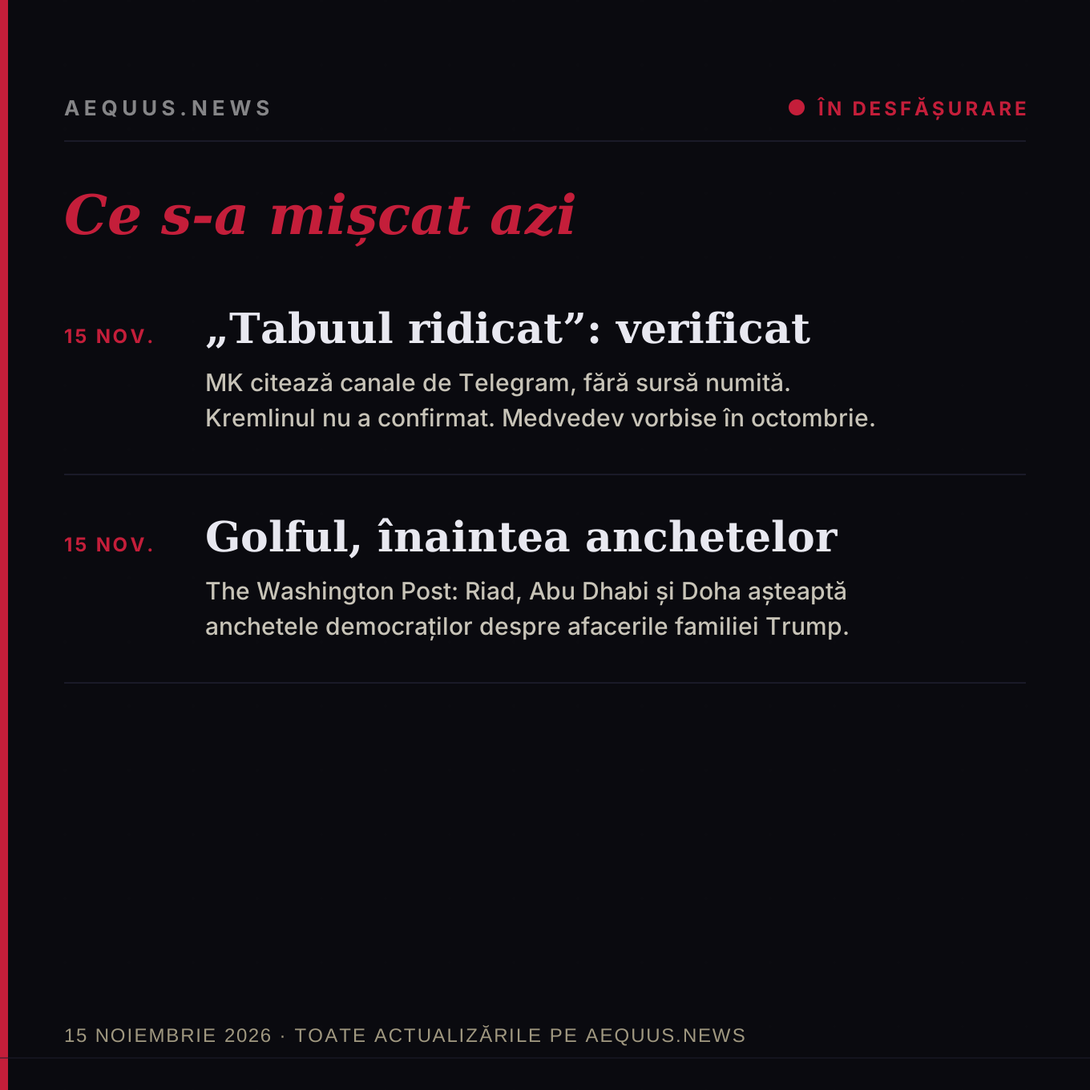
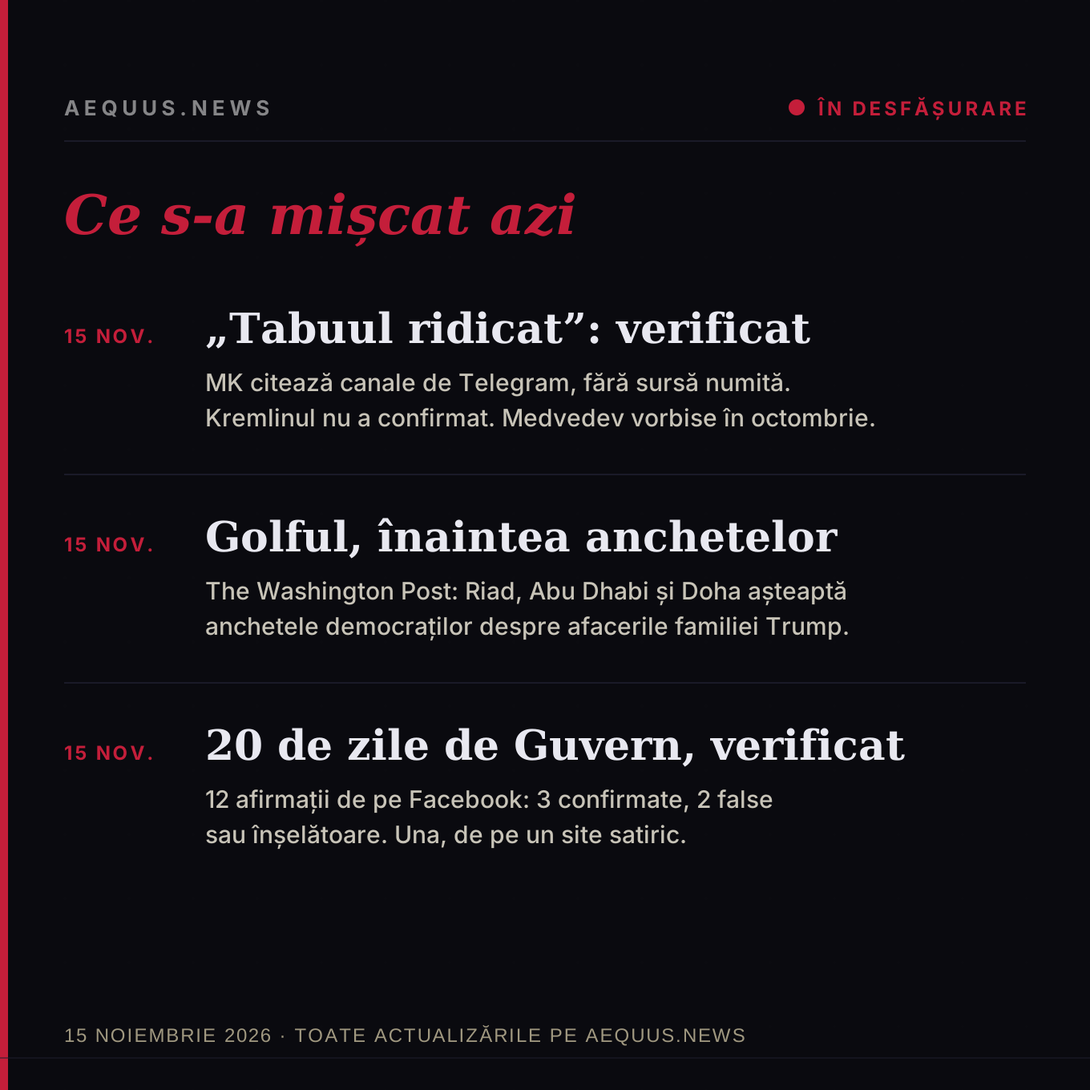
Ciornă: 20 de zile de Guvern Niculescu, verificat la sursă (12 afirmații); card; cardul de seară cu trei subiecte; România, prima pagină, În desfășurare, arhivă, toate, sitemap
Claude-Session: https://claude.ai/code/session_01WkZQEK3HZguKN3G8ruvfot

Changed region(s): [[0.1853, 0.6485, 0.8338, 0.7721], [0.0618, 0.6794, 0.1235, 0.7103]]

diff --git a/articles/guvernul-niculescu-20-de-zile-verificat.html b/articles/guvernul-niculescu-20-de-zile-verificat.html
@@ -1,0 +1,212 @@
+<!DOCTYPE html>
+<html lang="ro">
+<head>
+    <meta charset="UTF-8">
+    <meta name="viewport" content="width=device-width, initial-scale=1.0">
+    <meta name="description" content="Un bilanț al primelor trei săptămâni ale Guvernului Niculescu circulă pe rețelele sociale. Am verificat 12 afirmații: trei confirmate, patru parțial, trei neconfirmate, două false sau înșelătoare, una preluată dintr-un text satiric.">
+    <meta property="og:title" content="20 de zile de Guvern Niculescu: ce stă în picioare din lista care circulă pe Facebook">
+    <meta property="og:description" content="Un bilanț al primelor trei săptămâni ale Guvernului Niculescu circulă pe rețelele sociale. Am verificat 12 afirmații: trei confirmate, patru parțial, trei neconfirmate, două false sau înșelătoare, una preluată dintr-un text satiric.">
+    <meta property="og:image" content="https://aequus.news/articles/card-guvernul-niculescu-20-de-zile-verificat.png">
+    <meta property="og:url" content="https://aequus.news/articles/guvernul-niculescu-20-de-zile-verificat.html">
+    <meta property="og:type" content="article">
+    <meta property="og:site_name" content="Aequus">
+    <meta name="twitter:card" content="summary_large_image">
+    <meta name="twitter:title" content="20 de zile de Guvern Niculescu: ce stă în picioare din lista care circulă pe Facebook">
+    <meta name="twitter:description" content="12 afirmații despre Guvernul Niculescu, verificate. Una vine de pe un site satiric.">
+    <meta name="twitter:image" content="https://aequus.news/articles/card-guvernul-niculescu-20-de-zile-verificat.png">
+    <link rel="canonical" href="https://aequus.news/articles/guvernul-niculescu-20-de-zile-verificat.html">
+    <title>20 de zile de Guvern Niculescu, verificat | Aequus</title>
+    <style>
+        * { margin: 0; padding: 0; box-sizing: border-box; }
+        body {
+            background-color: #0a0a0f;
+            color: #e8e4d8;
+            font-family: Georgia, serif;
+            line-height: 1.75;
+            font-size: 16px;
+            padding: 40px 20px;
+        }
+        .container { max-width: 720px; margin: 0 auto; }
+        header {
+            margin-bottom: 40px;
+            border-bottom: 2px solid #c41e3a;
+            padding-bottom: 20px;
+        }
+        .tagline {
+            color: #c41e3a;
+            font-size: 12px;
+            text-transform: uppercase;
+            letter-spacing: 2px;
+            margin-bottom: 10px;
+        }
+        h1 {
+            font-size: 32px;
+            font-weight: normal;
+            line-height: 1.3;
+            margin-bottom: 15px;
+            color: #e8e4d8;
+        }
+        .date-author { color: #a09880; font-size: 13px; margin-top: 15px; }
+        .lead {
+            font-size: 18px;
+            color: #d4cfc0;
+            margin: 30px 0 40px 0;
+            font-style: italic;
+            border-left: 3px solid #c41e3a;
+            padding-left: 20px;
+        }
+        h2 {
+            font-size: 22px;
+            font-weight: normal;
+            margin: 50px 0 20px 0;
+            color: #e8e4d8;
+            border-bottom: 1px solid #2a2a30;
+            padding-bottom: 10px;
+        }
+        p { margin-bottom: 20px; text-align: justify; color: #d4cfc0; }
+        .data-box {
+            margin: 25px 0;
+            padding: 15px 20px;
+            border-left: 4px solid #c41e3a;
+            background-color: rgba(196, 30, 58, 0.08);
+            font-size: 15px;
+        }
+        .observation {
+            margin: 25px 0;
+            padding: 15px 20px;
+            border-left: 4px solid #4a6fa5;
+            background-color: rgba(74, 111, 165, 0.08);
+            font-size: 15px;
+        }
+        strong {
+            color: #e8e4d8;
+            font-weight: normal;
+            text-decoration: underline;
+            text-decoration-color: #c41e3a;
+        }
+        .table-wrap { overflow-x: auto; margin: 25px 0; }
+        table { width: 100%; border-collapse: collapse; font-size: 15px; }
+        th, td {
+            text-align: left;
+            padding: 8px 10px;
+            border-bottom: 1px solid #2a2a30;
+            color: #d4cfc0;
+            vertical-align: top;
+        }
+        th {
+            color: #c41e3a;
+            font-weight: normal;
+            font-size: 12px;
+            text-transform: uppercase;
+            letter-spacing: 1px;
+            border-bottom: 1px solid #c41e3a;
+        }
+        td.psd { color: #e8e4d8; }
+        ul { margin: 0 0 20px 22px; color: #d4cfc0; }
+        ul li { margin-bottom: 10px; padding-left: 4px; }
+        .source {
+            font-size: 12px;
+            color: #8a8674;
+            font-style: italic;
+            margin-top: 30px;
+            padding-top: 20px;
+            border-top: 1px solid #2a2a30;
+        }
+        .source a { color: #a09880; }
+        footer {
+            margin-top: 60px;
+            padding-top: 20px;
+            border-top: 1px solid #2a2a30;
+            color: #a09880;
+            font-size: 13px;
+        }
+        .footer-tagline {
+            color: #c41e3a;
+            font-size: 12px;
+            text-transform: uppercase;
+            letter-spacing: 2px;
+            margin-bottom: 10px;
+        }
+        @media (max-width: 520px) {
+            h1 { font-size: 26px; }
+            p { text-align: left; }
+            th, td { padding: 7px 6px; font-size: 14px; }
+        }
+    </style>
+</head>
+<body>
+    <div class="container">
+        <header>
+            <div class="tagline">România · Guvern · Verificat la sursă · Notă</div>
+            <h1>20 de zile de Guvern Niculescu: ce stă în picioare din lista care circulă pe Facebook</h1>
+            <div class="date-author">15 noiembrie 2026 | Aequus</div>
+        </header>
+
+        <div class="data-box">
+            <strong>Pe scurt:</strong>
+            <ul style="margin:12px 0 0 20px;">
+                <li>Pe rețelele sociale circulă un bilanț al primelor trei săptămâni ale Guvernului Niculescu, învestit pe 20 octombrie: prime și sporuri reluate în instituții și companii de stat, bani deblocați, miniștri care au anulat măsurile predecesorilor.</li>
+                <li>Am verificat 12 afirmații. Trei sunt confirmate, patru doar în parte, trei nu le-am putut confirma din nicio sursă publică, iar două sunt false sau înșelătoare. Una dintre acestea din urmă apare într-un text satiric.</li>
+                <li>Aprecierile despre miniștri și prognozele din text nu sunt fapte și nu le-am verificat.</li>
+            </ul>
+        </div>
+
+        <h2>Afirmațiile, una câte una</h2>
+        <div class="table-wrap">
+            <table>
+                <tr><th>Afirmația</th><th>Ce am găsit</th><th>Verdict</th></tr>
+                <tr><td>Nepotul senatoarei PSD Doina Federovici a ajuns director interimar la ANIF, fără concurs.</td><td>Ionuț Federovici, 33 de ani, angajat al ANIF din 2018, a fost numit pe 5 noiembrie director interimar la ANIF Botoșani, pe un post temporar, de circa trei luni, după pensionarea fostului șef. El spune: „N-a fost nicio implicare a doamnei în numirea mea ca director interimar.” ANIF nu a răspuns la întrebarea G4Media despre criterii.</td><td>Confirmat</td></tr>
+                <tr><td>S-au deblocat plățile din Anghel Saligny și PNRR, aproape 1 miliard de lei în noiembrie.</td><td>Pe 6 noiembrie, ministrul Dezvoltării, Alexandru Stoica, a anunțat plăți de circa 1 miliard de lei pentru lucrările din programul Anghel Saligny. Facturile din sistem însumează 2,3 miliarde; rămân neplătite 1,3–1,4 miliarde. Firmele cu proiecte PNRR primiseră 250 de milioane de lei în săptămâna anterioară. Motivul blocării anterioare, atribuit în text lui Bolojan, nu apare în anunț.</td><td>Confirmat</td></tr>
+                <tr><td>AEP scrie o nouă lege a partidelor.</td><td>AEP a pus în transparență, în august, un proiect de modificare a legii partidelor, criticat de PNL și USR.</td><td>Confirmat</td></tr>
+                <tr><td>Posturi suplimentare pentru cabinetul vicepremierului Marian Neacșu, cu sporuri de confidențialitate.</td><td>Prima ordonanță a Guvernului, adoptată pe 20 octombrie, îi dă lui Neacșu un consilier de stat, doi secretari de stat și un cabinet separat cu trei posturi contractuale, plătite din bugetul Secretariatului General al Guvernului. Despre sporuri sau scheme salariale speciale nu am găsit nimic.</td><td>Parțial</td></tr>
+                <tr><td>Peste 3,9 miliarde de lei, prin rectificare, pentru restanțe, gărzi și sporuri în spitale.</td><td>Rectificarea din 30 octombrie (OUG 41/2026) dă Fondului de asigurări de sănătate 3,22 miliarde de lei, aproape integral pentru medicamente, materiale și servicii, și permite Sănătății să folosească circa 3,9 miliarde reținute de la începutul anului. Destinația „gărzi și sporuri” nu apare în prezentarea oficială a rectificării pe care am analizat-o pe 31 octombrie.</td><td>Parțial</td></tr>
+                <tr><td>Manole: legea salarizării „poate la anul”, dar salariile demnitarilor cresc, iar salariul minim urcă cu 300 de lei.</td><td>Manole: „Negocierile trebuie reluate la începutul anului viitor.” Despre demnitari, nicio decizie: „nu vor fi demnitarii prioritatea”. Despre salariul minim: discuție în noiembrie, indexare „într-un orizont de 12 luni”. Cifra de 300 de lei nu am găsit-o.</td><td>Parțial</td></tr>
+                <tr><td>Intotero a publicat un video cu un baraj care „stă să crape” și ar inunda Valea Jiului.</td><td>Pe 5 noiembrie, la Uricani, Intotero a vorbit despre barajul Valea de Pești: infiltrații, lucrări urgente de circa 10,5 milioane de euro. „În scenariul extrem al unei cedări a barajului, consecințele pentru localitățile din aval ar putea fi catastrofale.” Nu a spus că barajul e pe punctul de a ceda. Videoclipul și nota de fundamentare cu „încă 50 de ani” nu le-am găsit.</td><td>Parțial</td></tr>
+                <tr><td>ASF: revin prima de vacanță, primele festive, până la 14 salarii pe an, sporul de confidențialitate.</td><td>Nu am găsit nicio decizie publică din ultimele trei săptămâni.</td><td>Neconfirmat</td></tr>
+                <tr><td>ROMATSA, Unifarm, Romsilva, RAR, Imprimeria Națională: sporuri, prime și indemnizații de CA deblocate.</td><td>Nu am găsit nicio decizie publică după 20 octombrie. La Unifarm, ultimele hotărâri ale adunării acționarilor publicate pe site sunt din septembrie.</td><td>Neconfirmat</td></tr>
+                <tr><td>Am pierdut definitiv 700 de milioane de euro din PNRR; urmează restul de 3,4 miliarde.</td><td>Suma pierdută e 770 de milioane de euro, anunțată de Nicușor Dan pe 27 august, înaintea Guvernului Niculescu, pentru că legea salarizării nu a fost adoptată la termen. Cifra de 3,4 miliarde „rest” nu am găsit-o.</td><td>Neconfirmat (3,4 miliarde); 770, nu 700</td></tr>
+                <tr><td>La ANRE s-au aprobat prime și sporuri de vechime de 3,5 milioane de euro.</td><td>ANRE e autoritate independentă, nu instituție a Guvernului. Bugetul ei rectificat, prin Ordinul 66 din 21 octombrie, semnat de președintele ANRE, a păstrat sporul de vechime de 15,53 milioane de lei (circa 3,05 milioane de euro), prevăzut de la începutul anului, și a scăzut cheltuielile de personal cu 1,945 milioane de lei, pentru plata taxei de solidaritate. Președintele ANRE: „Niciun salariu din Autoritatea de Reglementare, al niciunui coleg de aici, nu a crescut cu niciun leu.”</td><td>Înșelător</td></tr>
+                <tr><td>Intotero a redeschis toate cele șapte balastiere ilegale închise de Diana Buzoianu și a confiscat mașina inspectorilor din Olt.</td><td>Nu am găsit nicio sursă pentru redeschiderea balastierelor. Formula apare pe 5 noiembrie pe Times New Roman, site satiric: „Natalia Intotero a redeschis 9 balastiere ilegale în doar 7 zile”. Despre mașini: pe 3 noiembrie, Diana Buzoianu a scris că inspectorii care au descoperit balastiera ilegală din Olt „tocmai au primit decizia de a le fi luate mașinile”; ea atribuie decizia lui Daniel Naicu, consilier județean PSD repus director la Administrația Bazinală Jiu, nu ministrei. Intotero: controalele continuă.</td><td>Fals (balastierele); neconfirmat independent (mașinile)</td></tr>
+            </table>
+        </div>
+
+        <h2>Ce nu am verificat</h2>
+        <ul>
+            <li>Caracterizările miniștrilor (Intotero, Rogobete, Manole), prognozele despre căderea Guvernului și despre alegeri și citatul atribuit senatoarei Federovici despre arhangheli.</li>
+            <li>Cauzele enumerate pentru riscurile din PNRR (AMEPIP, închiderea centralelor pe cărbune, cloudul guvernamental).</li>
+        </ul>
+
+        <h2>Interpretare</h2>
+        <p><em>De aici încolo, textul este interpretare, nu constatare.</em></p>
+        <p>Lista amestecă trei feluri de lucruri: fapte documentate, cifre luate din contexte diferite și o glumă de pe un site satiric, prezentată ca fapt. Faptele verificate ajung singure pentru o critică: un nepot de senator numit interimar fără concurs, un vicepremier cu aparat propriu creat prin prima ordonanță. Pusă lângă ele, gluma le scade credibilitatea. Iar banii ANRE, o autoritate pe care Guvernul nu o conduce, nu se pot pune pe seama acestui guvern.</p>
+
+        <div class="observation">
+            De urmărit: a doua rectificare, anunțată până la 30 noiembrie, și deciziile publice ale consiliilor de administrație din companiile de stat. Context: <a href="/articles/guvern-30-octombrie-rectificare-prefecti.html" style="color:#a09880;">O singură ședință de Guvern</a> · <a href="/articles/guvernul-niculescu-lista-si-programul.html" style="color:#a09880;">Guvernul Niculescu în Parlament</a>.
+        </div>
+
+        <div class="source">Surse: <a href="https://www.g4media.ro/nepotul-senatoarei-psd-doina-fedorovici-numit-director-interimar-la-anif-botosani-n-a-fost-nicio-implicare-a-doamnei-in-numirea-mea-ca-director-interimar-ionut-fedorovici.html">G4Media</a> (ANIF Botoșani) · <a href="https://cursdeguvernare.ro/plati-de-aproape-1-mld-lei-catre-companiile-care-au-facut-lucrari-saligny.html">CursDeGuvernare</a> (Anghel Saligny, PNRR) · <a href="https://newsweek.ro/politica/aep-schimba-regulile-pentru-partide-proiectul-de-lege-pus-in-transparenta">Newsweek România</a> și <a href="https://informat.ro/en/politics/pnl-rejects-aep-bill-to-amend-the-political-parties-law-147120">Informat</a> (AEP) · <a href="https://spotmedia.ro/stiri/politica/prima-ordonanta-a-guvernului-niculescu-ii-da-puteri-nebanuite-lui-marian-neacsu">Spotmedia</a> (Neacșu) · <a href="/articles/guvern-30-octombrie-rectificare-prefecti.html">Aequus, 31 octombrie</a> (rectificarea) · <a href="https://www.digi24.ro/stiri/actualitate/politica/florin-manole-espre-majorarea-salariilor-demnitarilor-pentru-a-aduce-echitate-in-sistem-va-trebui-sa-avem-cresteri-peste-tot-4016793">Digi24</a> (Manole) · <a href="https://ziarulexclusiv.ro/2026/11/05/problemele-de-mediu-din-valea-jiului-analizate-la-fata-locului-de-ministrul-natalia-intotero/">Ziarul Exclusiv</a> (Valea de Pești) · <a href="https://www.radioresita.ro/national/romania-a-pierdut-definitiv-770-de-milioane-de-euro-din-pnrr">Radio România Reșița</a> (770 de milioane) · <a href="https://newscenter.ro/energie/rectificare-bugetara-conducerea-anre-a-aprobat-prime-si-sporuri-de-peste-3-milioane-de-euro/">NewsCenter</a> (Ordinul ANRE 66) · <a href="https://www.europafm.ro/presedintele-anre-dezminte-informatiile-conform-carora-salariile-angajatilor-ar-fi-fost-majorate-niciun-salariu-din-autoritatea-de-reglementare-al-niciunui-coleg-de-aici-nu-a-crescut-cu-ni/">Europa FM</a> (președintele ANRE) · <a href="https://www.timesnewroman.ro/politic/ministrii-psd-muncesc-pe-branci-natalia-intotero-a-redeschis-9-balastiere-ilegale-in-doar-7-zile/">Times New Roman</a> (satira) · <a href="https://www.g4media.ro/diana-buzoianu-fosta-ministra-a-mediului-inspectorii-care-au-descoperit-balastiera-ilegala-de-la-olt-tocmai-au-primit-decizia-de-a-le-fi-luate-masinile-ca-sa-nu-mai-poata-face-controale.html">G4Media</a> (Buzoianu, mașinile).</div>
+
+
+        <!-- aequus-extra:start -->
+<div style="max-width:720px;margin:0 auto;padding:0 20px 48px;font-family:Georgia,'Times New Roman',serif;box-sizing:border-box;">
+  <section style="margin:36px 0 0;padding:30px 26px;background:#12121a;border:0.5px solid #2a2a33;border-left:3px solid #c9a961;border-radius:4px;box-sizing:border-box;">
+    <div style="font-size:30px;line-height:1;color:#c9a961;margin-bottom:12px;">Æ</div>
+    <h3 style="margin:0 0 10px;font-size:24px;font-weight:normal;line-height:1.3;color:#e8e4d8;">Săptămâna, pe scurt. În fiecare duminică, la 8:30.</h3>
+    <p style="margin:0 0 22px;font-size:17px;line-height:1.6;color:#a09880;">Tot ce a contat în România și în jurul ei, într-un singur email. Faptele separate de interpretare. Gratuit. <a href="/abonare.html" style="color:#c9a961;">Ce primești</a></p>
+    <form action="https://app.kit.com/forms/10044333/subscriptions" method="post" style="display:flex;flex-wrap:wrap;gap:10px;margin:0;">
+      <label for="aequus-email" style="position:absolute;left:-9999px;">Adresa ta de email</label>
+      <input id="aequus-email" type="email" name="email_address" required placeholder="adresa ta de email" autocomplete="email" style="flex:1 1 220px;min-width:0;padding:14px 16px;font-family:Georgia,serif;font-size:17px;color:#e8e4d8;background:#0a0a0f;border:1px solid #2a2a33;border-radius:3px;box-sizing:border-box;">
+      <button type="submit" style="flex:0 0 auto;padding:14px 26px;font-family:Georgia,serif;font-size:16px;letter-spacing:1px;color:#0a0a0f;background:#c9a961;border:none;border-radius:3px;cursor:pointer;">Abonează-mă</button>
+    </form>
+    <p style="margin:14px 0 0;font-size:13px;line-height:1.5;color:#8a8578;">Primești un email de confirmare. Te poți dezabona oricând, cu un clic. <em>Sine ira et studio.</em></p>
+  </section>
+</div>
+<!-- aequus-extra:end -->
+
+        <footer>
+            <div class="footer-tagline">Aequus.news</div>
+            <p>Sine ira et studio. Geopolitică și analiză investigativă din Timișoara.</p>
+        </footer>
+    </div>
+</body>
+</html>

diff --git a/toate.html b/toate.html
@@ -165,6 +165,7 @@
     <section class="live-threads" aria-label="În desfășurare">
       <div class="lt-head"><span class="lt-dot" aria-hidden="true"></span>În desfășurare</div>
       <ul>
+        <li><time datetime="2026-11-15">15 nov.</time><div><span class="lt-title"><a href="/articles/guvernul-niculescu-20-de-zile-verificat.html">Guvernul Niculescu</a></span><span class="lt-new">Nou. 20 de zile, verificat: 12 afirmații, una de pe un site satiric.</span></div></li>
         <li><time datetime="2026-11-15">15 nov.</time><div><span class="lt-title"><a href="/articles/zelenski-tabu-ce-se-stie.html">Rusia și Ucraina</a></span><span class="lt-new">Nou. „Tabuul ridicat”: MK citează canale de Telegram, fără sursă numită. Kremlinul nu a confirmat.</span></div></li>
         <li><time datetime="2026-11-15">15 nov.</time><div><span class="lt-title"><a href="/articles/trump-pana-pe-3-ianuarie.html#act-15-nov">Trump până pe 3 ianuarie</a></span><span class="lt-new">Golful se pregătește de anchetele democraților, potrivit The Washington Post.</span></div></li>
         <li><time datetime="2026-11-14">14 nov.</time><div><span class="lt-title"><a href="/articles/cinci-la-masa-europa-fara-romania.html">Negocierile pentru Ucraina</a></span><span class="lt-new">Nou. Echipa Europei: Franța, Germania, Italia, Polonia, Regatul Unit. România nu e printre ei.</span></div></li>
@@ -202,6 +203,17 @@
       <h2 class="article-title"><a href="/articles/cinci-la-masa-europa-fara-romania.html">Cinci la masă. Europa și-a ales negociatorii pentru Ucraina, România nu e printre ei</a></h2>
       <p class="article-excerpt">La Dublin, liderii UE au decis cine vorbește pentru Europa la negocierile pentru Ucraina: Franța, Germania, Italia, Polonia, Regatul Unit și instituțiile UE. România nu e în echipă, deși Moscova pune pe masă propunerile din 2021, care o privesc direct.</p>
       <div class="article-footer"><time datetime="2026-11-14">14 noiembrie 2026</time><a href="/articles/cinci-la-masa-europa-fara-romania.html" class="read-more">Citește nota →</a></div>
+    </article>
+
+    <!-- FEATURED — 20 de zile de Guvern Niculescu (15 noiembrie 2026) -->
+    <article class="featured-article flux-romania">
+      <a class="card-link" href="/articles/guvernul-niculescu-20-de-zile-verificat.html" aria-hidden="true" tabindex="-1">
+        <img src="/articles/card-guvernul-niculescu-20-de-zile-verificat.png" alt="20 de zile de Guvern. Ce stă în picioare." loading="lazy">
+      </a>
+      <span class="cat-chip">ROMÂNIA • GUVERN • VERIFICAT LA SURSĂ</span>
+      <h2 class="article-title"><a href="/articles/guvernul-niculescu-20-de-zile-verificat.html">20 de zile de Guvern Niculescu: ce stă în picioare din lista care circulă pe Facebook</a></h2>
+      <p class="article-excerpt">Un bilanț al primelor trei săptămâni ale Guvernului Niculescu circulă pe rețelele sociale. Am verificat 12 afirmații: trei confirmate, patru parțial, trei neconfirmate, două false sau înșelătoare. Una vine de pe un site satiric.</p>
+      <div class="article-footer"><time datetime="2026-11-15">15 noiembrie 2026</time><a href="/articles/guvernul-niculescu-20-de-zile-verificat.html" class="read-more">Citește nota →</a></div>
     </article>
 
     <!-- FEATURED — Tabuul ridicat (15 noiembrie 2026) -->

diff --git a/in-desfasurare.html b/in-desfasurare.html
@@ -166,6 +166,7 @@
     </section>
     <section class="feed">
     <h2 class="day"><time datetime="2026-11-15">Duminică, 15 noiembrie</time></h2>
+    <div class="it" data-fir="Bugetul 2026"><div class="fir">Guvernul Niculescu</div><div><div class="t"><span class="badge">NOU</span><a href="/articles/guvernul-niculescu-20-de-zile-verificat.html">20 de zile de Guvern Niculescu: ce stă în picioare</a></div><div class="n">Verificat la sursă. 12 afirmații: Federovici la ANIF și plățile Saligny, confirmate; ANRE, înșelător; balastierele, de pe un site satiric.</div></div></div>
     <div class="it" data-fir="Rusia și Ucraina"><div class="fir">Rusia și Ucraina</div><div><div class="t"><span class="badge">NOU</span><a href="/articles/zelenski-tabu-ce-se-stie.html">„Tabuul ridicat.” Ce se știe, de fapt, despre decizia de a-l lichida pe Zelenski</a></div><div class="n">Verificat la sursă. MK citează canale de Telegram, fără sursă numită. Kremlinul nu a confirmat. Medvedev și Bordiuja vorbiseră în octombrie.</div></div></div>
     <div class="it" data-fir="Trump până pe 3 ianuarie"><div class="fir">Trump până pe 3 ianuarie</div><div><div class="t"><a href="/articles/trump-pana-pe-3-ianuarie.html#act-15-nov">Golful se pregătește de anchetele democraților</a></div><div class="n">The Washington Post: Arabia Saudită, Emiratele și Qatarul. World Liberty Financial, Affinity Partners, avionul Qatarului.</div></div></div>
 

diff --git a/arhiva.html b/arhiva.html
@@ -92,6 +92,15 @@
       <div class="sdline"></div>
     </div>
     <div class="articles-grid">
+      <article class="article-card flux-romania">
+        <span class="cat-chip">România · Guvern · Verificat la sursă</span>
+        <h3 class="article-title"><a href="/articles/guvernul-niculescu-20-de-zile-verificat.html">20 de zile de Guvern Niculescu: ce stă în picioare din lista care circulă pe Facebook</a></h3>
+        <p class="article-excerpt">12 afirmații verificate. Una vine de pe un site satiric.</p>
+        <div class="article-footer">
+          <time datetime="2026-11-15">15 noiembrie 2026</time>
+          <a href="/articles/guvernul-niculescu-20-de-zile-verificat.html" class="read-more">Citește →</a>
+        </div>
+      </article>
       <article class="article-card flux-global">
         <span class="cat-chip">Ucraina · Rusia · Verificat la sursă</span>
         <h3 class="article-title"><a href="/articles/zelenski-tabu-ce-se-stie.html">„Tabuul ridicat.” Ce se știe, de fapt, despre decizia de a-l lichida pe Zelenski</a></h3>

diff --git a/index.html b/index.html
@@ -269,6 +269,7 @@
       <aside class="live" aria-label="În desfășurare">
         <div class="kicker"><span class="dot" aria-hidden="true"></span>În desfășurare</div>
         <ul>
+          <li><time datetime="2026-11-15">15 nov. · Guvernul Niculescu</time><span class="t"><a href="/articles/guvernul-niculescu-20-de-zile-verificat.html">Nou: 20 de zile, verificat. Ce stă în picioare</a></span></li>
           <li><time datetime="2026-11-15">15 nov. · Rusia și Ucraina</time><span class="t"><a href="/articles/zelenski-tabu-ce-se-stie.html">Nou: „Tabuul ridicat.” Ce se știe, de fapt</a></span></li>
           <li><time datetime="2026-11-15">15 nov. · Trump până pe 3 ianuarie</time><span class="t"><a href="/articles/trump-pana-pe-3-ianuarie.html#act-15-nov">Golful se pregătește de anchetele democraților</a></span></li>
           <li><time datetime="2026-11-14">14 nov. · Negocierile pentru Ucraina</time><span class="t"><a href="/articles/cinci-la-masa-europa-fara-romania.html">Nou: Cinci la masă. România nu e printre ei</a></span></li>

diff --git a/romania.html b/romania.html
@@ -118,6 +118,12 @@
 
         <div class="articles-grid">
             <div class="article-card">
+                <h3>20 de zile de Guvern Niculescu: ce stă în picioare din lista care circulă pe Facebook</h3>
+                <div class="date">15 noiembrie 2026</div>
+                <p>Am verificat 12 afirmații din bilanțul care circulă pe rețelele sociale. Trei confirmate, patru parțial, trei neconfirmate, două false sau înșelătoare, una preluată de pe un site satiric.</p>
+                <a href="https://aequus.news/articles/guvernul-niculescu-20-de-zile-verificat.html">Citește nota →</a>
+            </div>
+            <div class="article-card">
                 <h3>„Nu ne-a jignit.” Simion o apără pe Weidel, după ce propriul partid o contrazisese</h3>
                 <div class="date">12 noiembrie 2026</div>
                 <p>Șefa AfD: migranții din România „jefuiesc” sistemul social german. MAE, președintele, PSD, USR și chiar AUR au respins acuzația. Simion, nu.</p>
